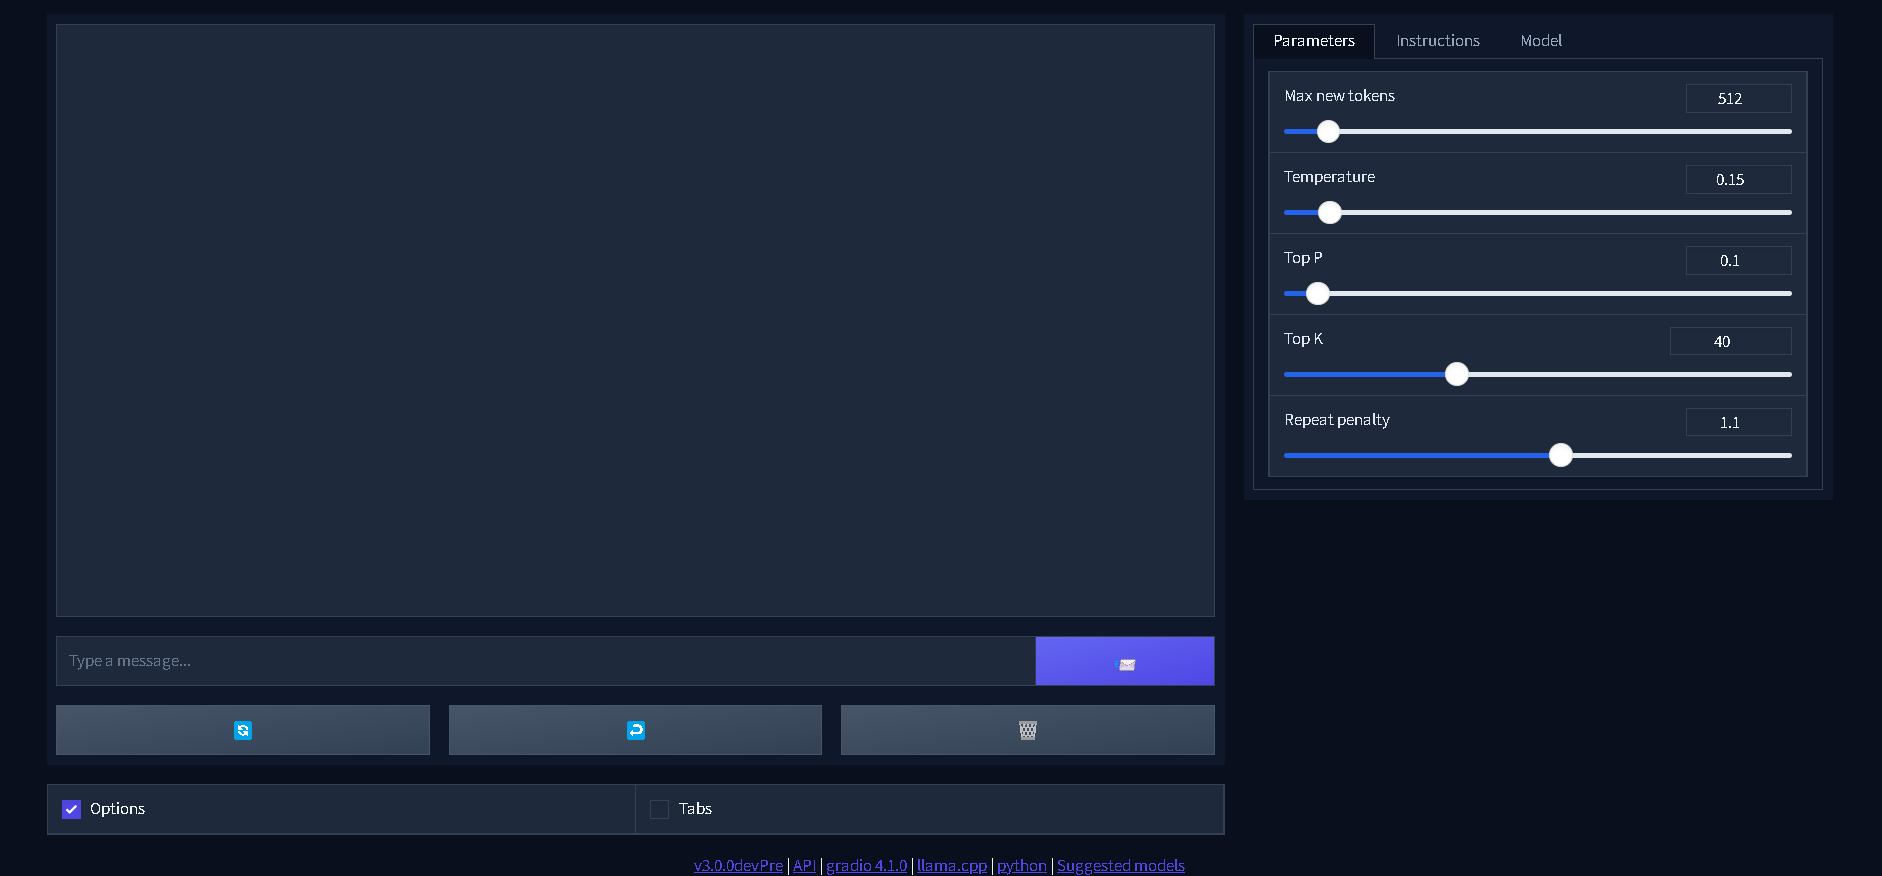
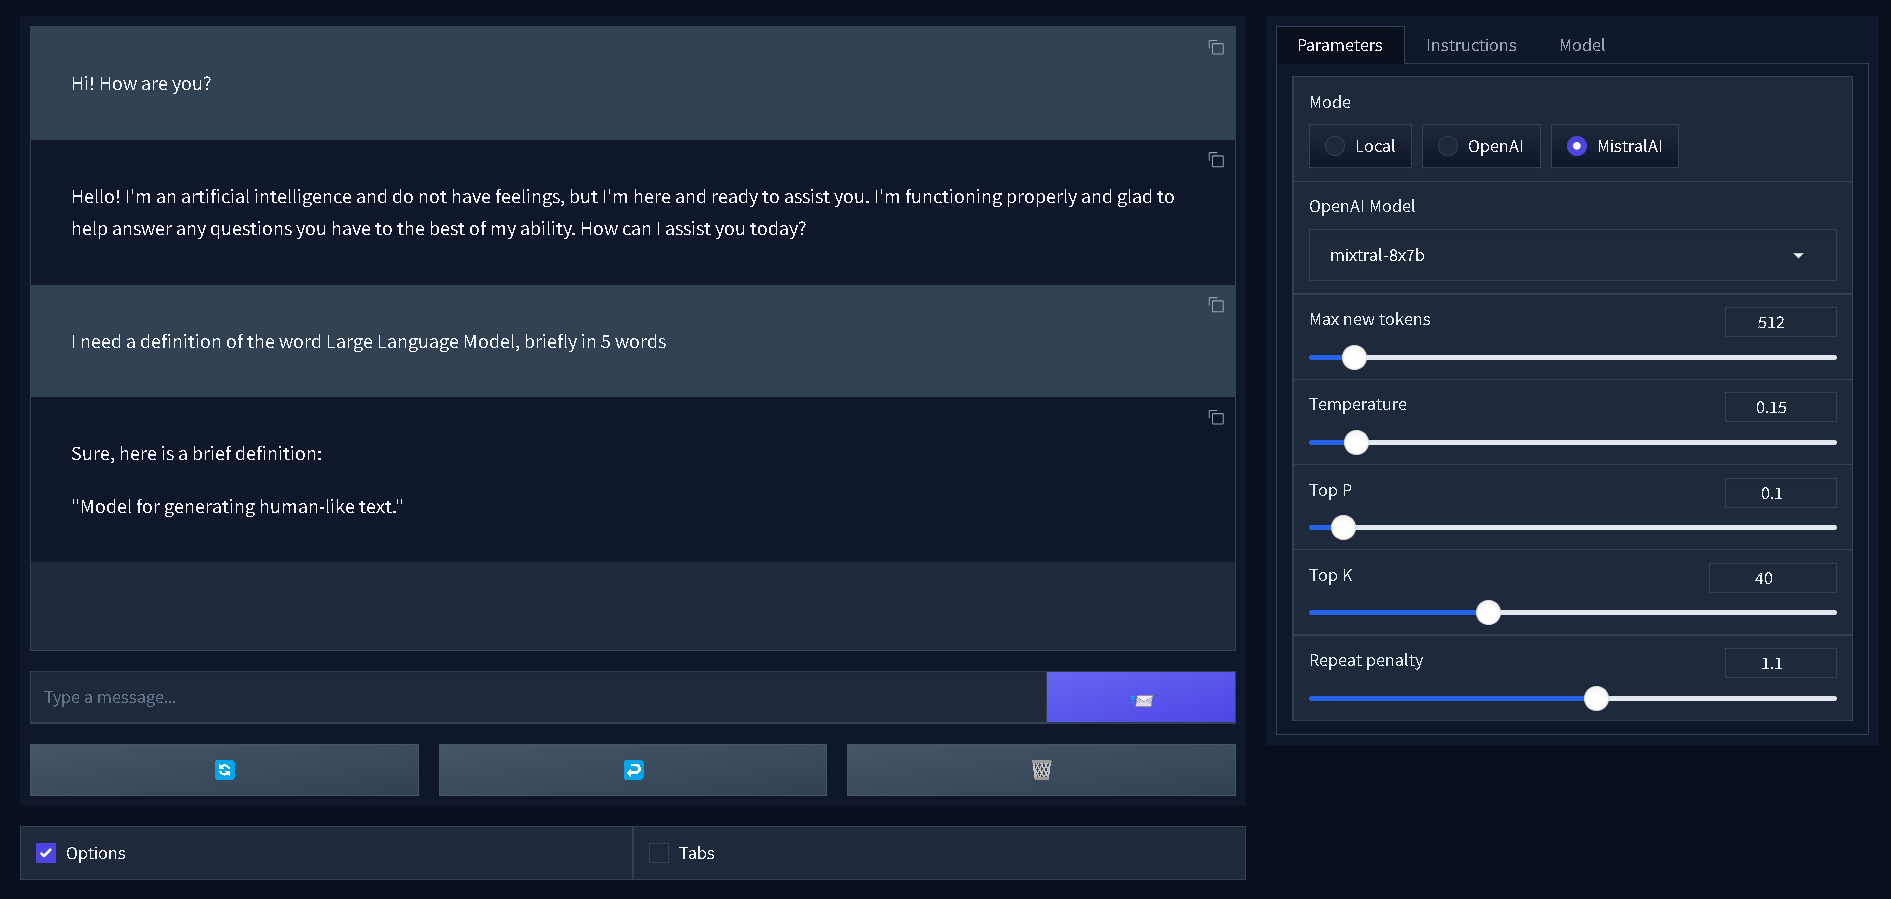
Add APIs support, add GGUF format support, switch to gradio v4.1.2, add Dockerfile

diff --git a/modules/inference.py b/modules/inference.py
@@ -4,63 +4,128 @@ import copy
 import llama_cpp
 from llama_cpp import Llama
 import random
-from huggingface_hub import hf_hub_download  
+from huggingface_hub import hf_hub_download, InferenceClient 
 import time
 
 from modules.load_presets import load_presets_value
+from modules.load_configure import *
 from modules.load_model import *
 
-def generate_text(message, history, system_prompt, preset, temperature, max_tokens, top_p, top_k, repeat_penalty, model, n_ctx, n_gpu_layers, n_threads, verbose, f16_kv, logits_all, vocab_only, use_mmap, use_mlock, n_batch, last_n_tokens_size, low_vram, rope_freq_base, rope_freq_scale):
-    dir = os.getcwd()
-    global llm
-    llm = Llama(
-        model_path=f"{dir}\models\{model}",
-        n_ctx=n_ctx,
-        n_gpu_layers=n_gpu_layers,
-        n_threads=n_threads,
-        verbose=verbose,
-        f16_kv=f16_kv,
-        logits_all=logits_all,
-        vocab_only=vocab_only,
-        use_mmap=use_mmap,
-        use_mlock=use_mlock,
-        n_batch=n_batch,
-        last_n_tokens_size=last_n_tokens_size,
-        low_vram=low_vram,
-        rope_freq_base=rope_freq_base,
-        rope_freq_scale=rope_freq_scale,
-
-
-
-    )
+def generate_text(message, history, mode, openai_endpoint, openai_model, mistralai_model, system_prompt, preset, temperature, max_tokens, top_p, top_k, repeat_penalty, model, n_ctx, n_gpu_layers, n_threads, verbose, f16_kv, logits_all, vocab_only, use_mmap, use_mlock, n_batch, last_n_tokens_size, low_vram, rope_freq_base, rope_freq_scale):
     global_sys_prompt = load_presets_value(preset) + " " + system_prompt
-    temp = ""
-    input_prompt = f"[INST] <<SYS>>\n{global_sys_prompt}.\n<</SYS>>\n\n "
-    for interaction in history:
-        input_prompt = input_prompt + str(interaction[0]) + " [/INST] " + str(interaction[1]) + " </s><s> [INST] "
+    
+    if mode == "Local":
+        dir = os.getcwd()
+        global llm
+        llm = Llama(
+            model_path=f"{dir}/models/{model}",
+            n_ctx=n_ctx,
+            n_gpu_layers=n_gpu_layers,
+            n_threads=n_threads,
+            verbose=verbose,
+            f16_kv=f16_kv,
+            logits_all=logits_all,
+            vocab_only=vocab_only,
+            use_mmap=use_mmap,
+            use_mlock=use_mlock,
+            n_batch=n_batch,
+            last_n_tokens_size=last_n_tokens_size,
+            low_vram=low_vram,
+            rope_freq_base=rope_freq_base,
+            rope_freq_scale=rope_freq_scale,
+        )
+        temp = ""
+        input_prompt = f"[INST] <<SYS>>\n{global_sys_prompt}.\n<</SYS>>\n\n "
+        for interaction in history:
+            input_prompt = input_prompt + str(interaction[0]) + " [/INST] " + str(interaction[1]) + " </s><s> [INST] "
 
-    input_prompt = input_prompt + str(message) + " [/INST] "
+        input_prompt = input_prompt + str(message) + " [/INST] "
 
-    output = llm(
-        input_prompt,
-        temperature=temperature,
-        top_p=top_p,
-        top_k=top_k, 
-        repeat_penalty=repeat_penalty,
+        output = llm(
+            input_prompt,
+            temperature=temperature,
+            top_p=top_p,
+            top_k=top_k, 
+            repeat_penalty=repeat_penalty,
+            max_tokens=max_tokens,
+            stop=[
+                "<|prompter|>",
+                "<|endoftext|>",
+                "<|endoftext|> \n",
+                "ASSISTANT:",
+                "USER:",
+                "SYSTEM:",
+            ],
+            stream=True,
+        )
+        for out in output:
+            stream = copy.deepcopy(out)
+            temp += stream["choices"][0]["text"]
+            yield temp
+
+        history = ["init", input_prompt]
+    elif mode == "OpenAI":
+        from openai import OpenAI
+        
+        client = OpenAI(api_key=openai_key, base_url=f"https://{openai_endpoint}")
+    
+        history_openai_format = []
+        history_openai_format.append({"role": "user", "content":  global_sys_prompt})
+        for human, assistant in history:
+            history_openai_format.append({"role": "user", "content": human })
+            history_openai_format.append({"role": "assistant", "content":assistant})
+        history_openai_format.append({"role": "user", "content": message})
+    
+        response = client.chat.completions.create(model=openai_model,
+        messages= history_openai_format,
         max_tokens=max_tokens,
-        stop=[
-            "<|prompter|>",
-            "<|endoftext|>",
-            "<|endoftext|> \n",
-            "ASSISTANT:",
-            "USER:",
-            "SYSTEM:",
-        ],
-        stream=True,
-    )
-    for out in output:
-        stream = copy.deepcopy(out)
-        temp += stream["choices"][0]["text"]
-        yield temp
+        top_p=top_p,
+        temperature=temperature,
+        stream=True)
 
-    history = ["init", input_prompt]
+        partial_message = ""
+        for chunk in response:
+            if chunk.choices[0].delta.content is not None:
+                partial_message = partial_message + chunk.choices[0].delta.content
+                yield partial_message
+    elif mode == "MistralAI":
+        if mistralai_model == "mixtral-8x7b":
+            client = InferenceClient(
+                "mistralai/Mixtral-8x7B-Instruct-v0.1"
+            )
+        elif mistralai_model == "mistral-7b":
+            client = InferenceClient(
+                "mistralai/Mistral-7B-Instruct-v0.2"
+            )
+
+
+        def format_prompt(message, history):
+            prompt = "<s>"
+            for user_prompt, bot_response in history:
+                prompt += f"[INST] {user_prompt} [/INST]"
+                prompt += f" {bot_response}</s> "
+            prompt += f"[INST] {message} [/INST]"
+            return prompt
+
+        temperature = float(temperature)
+        if temperature < 1e-2:
+            temperature = 1e-2
+        top_p = float(top_p)
+
+        generate_kwargs = dict(
+            temperature=temperature,
+            max_new_tokens=max_tokens,
+            top_p=top_p,
+            repetition_penalty=repeat_penalty,
+            do_sample=True,
+            seed=42,
+        )
+
+        formatted_prompt = format_prompt(f"{global_sys_prompt}, {message}", history)
+        stream = client.text_generation(formatted_prompt, **generate_kwargs, stream=True, details=True, return_full_text=False)
+        output = ""
+
+        for response in stream:
+            output += response.token.text
+            yield output
+        return output

diff --git a/webui.py b/webui.py
@@ -15,7 +15,10 @@ import random
 from huggingface_hub import hf_hub_download  
 
 from modules.download_model import download_model
-from modules.inference import load_model, generate_text
+from modules.inference import generate_text
+from modules.load_model import load_model
+from modules.openai_api import chat_openai
+from modules.change import mode_change
 from modules.model_list import list_models
 from modules.render_markdown import render_md
 from modules.load_presets import load_presets_names, load_presets_value
@@ -33,13 +36,17 @@ else:
 history = []
 
     
-chatbot = gr.Chatbot(show_label=False, layout=chat_style, show_copy_button=True, height=500, min_width=180)
+chatbot = gr.Chatbot(show_label=False, layout=chat_style, show_copy_button=True, height=500, min_width=180, bubble_full_width=False)
 
 with gr.Blocks(theme=theme, title=f"TensorLM v{tlm_version}", css="style.css") as webui:
     #refresh_model = gr.Button(value="Load model", interactive=True, scale=1)
     with gr.Row():
         with gr.Row(render=False, variant="panel") as sliders:       
             with gr.Tab("Parameters"):
+                mode = gr.Radio(label="Mode", choices=["Local", "OpenAI", "MistralAI"], value="Local", interactive=True)
+                openai_endpoint = gr.Dropdown(label="OpenAI Endpoint", choices=["api.chatanywhere.tech/v1", "api.openai.com/v1", "api.naga.ac/v1", "chatgpt-api.shn.hk/v1"], value="api.chatanywhere.tech/v1", allow_custom_value=True, interactive=True, visible=False)
+                openai_model = gr.Dropdown(label="OpenAI Model", choices=["gpt-3.5-turbo", "gpt-3.5-turbo-16k", "gpt-3.5-turbo-0301", "gpt-4", "gpt-4-0314", "gpt-4-0613"], value="gpt-3.5-turbo", allow_custom_value=True, interactive=True, visible=False)
+                mistralai_model = gr.Dropdown(label="OpenAI Model", choices=["mixtral-8x7b", "mistral-7b"], value="mixtral-8x7b", allow_custom_value=False, interactive=True, visible=False)
                 max_tokens = gr.Slider(label="Max new tokens", minimum=256, maximum=4056, value=512, step=8, interactive=True)
                 temperature = gr.Slider(label="Temperature", minimum=0.01, maximum=2.00, value=0.15, step=0.01, interactive=True)
                 top_p = gr.Slider(label="Top P", minimum=0.01, maximum=2.00, value=0.10, step=0.01, interactive=True)
@@ -49,7 +56,7 @@ with gr.Blocks(theme=theme, title=f"TensorLM v{tlm_version}", css="style.css") a
                 preset = gr.Radio(label="Prompt preset", choices=load_presets_names(), value=load_presets_names()[1], interactive=True)
                 system_prompt = gr.Textbox(label="Custom system prompt", max_lines=4, lines=3, interactive=True)
             with gr.Tab("Model"):
-                model = gr.Dropdown(label="Model (only based on Llama in GGML format (.bin))", choices=os.listdir(f"{dir}\models"), value="None", interactive=True, allow_custom_value=False, scale=50)
+                model = gr.Dropdown(label="Model (only based on Llama in GGML/GGUF format (.bin/.gguf))", choices=os.listdir(f"{dir}/models"), value="None", interactive=True, allow_custom_value=False, scale=50)
 
         
         with gr.Row(render=False) as settings:
@@ -78,7 +85,7 @@ with gr.Blocks(theme=theme, title=f"TensorLM v{tlm_version}", css="style.css") a
                     submit_btn="📨",
                     undo_btn="↩",
                     clear_btn="🗑",
-                    additional_inputs=[system_prompt, preset, temperature, max_tokens, top_k, top_k, repeat_penalty, model, n_ctx, n_gpu_layers, n_threads, verbose, f16_kv, logits_all, vocab_only, use_mmap, use_mlock, n_batch, last_n_tokens_size, low_vram, rope_freq_base, rope_freq_scale]
+                    additional_inputs=[mode, openai_endpoint, openai_model, mistralai_model, system_prompt, preset, temperature, max_tokens, top_p, top_k, repeat_penalty, model, n_ctx, n_gpu_layers, n_threads, verbose, f16_kv, logits_all, vocab_only, use_mmap, use_mlock, n_batch, last_n_tokens_size, low_vram, rope_freq_base, rope_freq_scale]
                 )
             with gr.Row():
                 options_change = gr.Checkbox(label="Options", value=False, interactive=True)
@@ -111,7 +118,7 @@ with gr.Blocks(theme=theme, title=f"TensorLM v{tlm_version}", css="style.css") a
                                 settings.render()
             with gr.Row():
                 gr.Markdown(f"""
-                <center><a href="https://github.com/ehristoforu/TensorLM-webui">v{tlm_version}</a> | <a href="/?view=api">API</a> | <a href="https://gradio.app">gradio 4.1.0</a> | <a href="https://github.com/ggerganov/llama.cpp">llama.cpp</a> | <a href="https://python.org">python</a> | <a href="https://huggingface.co/TheBloke?search_models=GGML">Suggested models</a></center>
+                <center><a href="https://github.com/ehristoforu/TensorLM-webui">v{tlm_version}</a> | <a href="/?view=api">API</a> | <a href="https://gradio.app">gradio 4.1.2</a> | <a href="https://github.com/ggerganov/llama.cpp">llama.cpp</a> | <a href="https://python.org">python</a> | <a href="https://huggingface.co/TheBloke?search_models=GGML">Suggested models</a></center>
                 """, visible=footer_vis)      
 
     
@@ -119,7 +126,13 @@ with gr.Blocks(theme=theme, title=f"TensorLM v{tlm_version}", css="style.css") a
             with gr.Column(scale=1):
                 sliders.render()
      
-    
+    mode.change(
+        fn=mode_change,
+        inputs=mode,
+        outputs=[top_k, repeat_penalty, model, reload_model, openai_endpoint, openai_model, mistralai_model],
+        queue=False,
+        api_name=False,
+    )
     render_markdown.click(
         fn=render_md,
         inputs=notebook,

diff --git a/modules/openai_api.py b/modules/openai_api.py
@@ -1,0 +1,33 @@
+from openai import OpenAI
+import gradio as gr
+import os
+import time
+import random
+
+from modules.load_configure import *
+from modules.load_presets import load_presets_value
+
+client = OpenAI(api_key=openai_key, base_url="https://api.chatanywhere.tech/v1")
+
+def chat_openai(message, history, system_prompt, preset, temperature, max_tokens, top_p):
+    global_sys_prompt = load_presets_value(preset) + " " + system_prompt
+    
+    history_openai_format = []
+    history_openai_format.append({"role": "user", "content":  global_sys_prompt})
+    for human, assistant in history:
+        history_openai_format.append({"role": "user", "content": human })
+        history_openai_format.append({"role": "assistant", "content":assistant})
+    history_openai_format.append({"role": "user", "content": message})
+  
+    response = client.chat.completions.create(model='gpt-3.5-turbo',
+    messages= history_openai_format,
+    max_tokens=max_tokens,
+    top_p=top_p,
+    temperature=temperature,
+    stream=True)
+
+    partial_message = ""
+    for chunk in response:
+        if chunk.choices[0].delta.content is not None:
+              partial_message = partial_message + chunk.choices[0].delta.content
+              yield partial_message

diff --git a/modules/change.py b/modules/change.py
@@ -1,0 +1,12 @@
+import os
+import random
+import time
+import gradio as gr
+
+def mode_change(mode):
+    if mode == "Local":
+        return gr.update(interactive=True), gr.update(interactive=True), gr.update(interactive=True), gr.update(interactive=True), gr.update(visible=False), gr.update(visible=False), gr.update(visible=False)
+    elif mode == "OpenAI":
+        return gr.update(interactive=False), gr.update(interactive=False), gr.update(interactive=False), gr.update(interactive=False), gr.update(visible=True), gr.update(visible=True), gr.update(visible=False)
+    elif mode == "MistralAI":
+        return gr.update(interactive=False), gr.update(interactive=True), gr.update(interactive=False), gr.update(interactive=False), gr.update(visible=False), gr.update(visible=False), gr.update(visible=True)

diff --git a/modules/load_configure.py b/modules/load_configure.py
@@ -8,6 +8,9 @@ load_dotenv("configure.txt")
 global tlm_version
 tlm_version = os.getenv("tlm_version")
 
+global openai_key
+openai_key = os.getenv("openai_key")
+
 global echo
 echo = os.getenv("echo")
 

diff --git a/modules/echo.py b/modules/echo.py
@@ -32,3 +32,5 @@ for _ in range(3):
 
 print()
 print('Logical CPUs:', psutil.cpu_count())
+
+print("")

diff --git a/README.md b/README.md
@@ -15,6 +15,7 @@ Navigation: \
 [**Installing**](#installing) \
 [**Presets**](#presets) \
 [**Model downloading**](#model-downloading) \
+[**API**](#api) \
 [**Args**](#args)
 ---
 
@@ -30,6 +31,8 @@ You can use this webui in cloud service Colab: <a target="_blank" href="https://
 - Comfy to work
 - Not demanding on resources
 - Beautiful and pleasant interface
+- Support GGML and GGUF format (.bin and .gguf)
+- Support OpenAI API and MistralAI API
 
 ## Installing
 
@@ -74,6 +77,30 @@ You can create your custom presets, instruction in ```presets``` folder (it is .
 ## Model downloading
 
 With this interface you don't need to scour the Internet looking for a compatible model; in the "Tabs" checkbox and in the "ModelGet" tab you can choose which model to download from our verified repository on HuggingFace.
+
+## API 
+
+*Warning! Need Internet.*
+
+### OpenAI API
+
+![openai-api-preview](assets/openai-api-preview.png)
+
+You can use OpenAI API in this UI (select "OpenAI" in Mode radio-button).
+
+- You can select the OpenAI model or input your custom OpenAI model
+- You can select the OpenAI endpoint or input your custom OpenAI endpoint
+
+*To enter your OpenAI key go to ```configure.txt``` and input to ```openai_key``` parameter*
+
+### MistralAI API
+
+![mistralai-api-preview](assets/mistralai-api-preview.png)
+
+You can use MistralAI API (from HuggingFace) in this UI (select "MistralAI" in Mode radio-button) for free.
+
+- You can select the MistralAI model or input your custom MistralAI model
+
 
 ## Args
 
